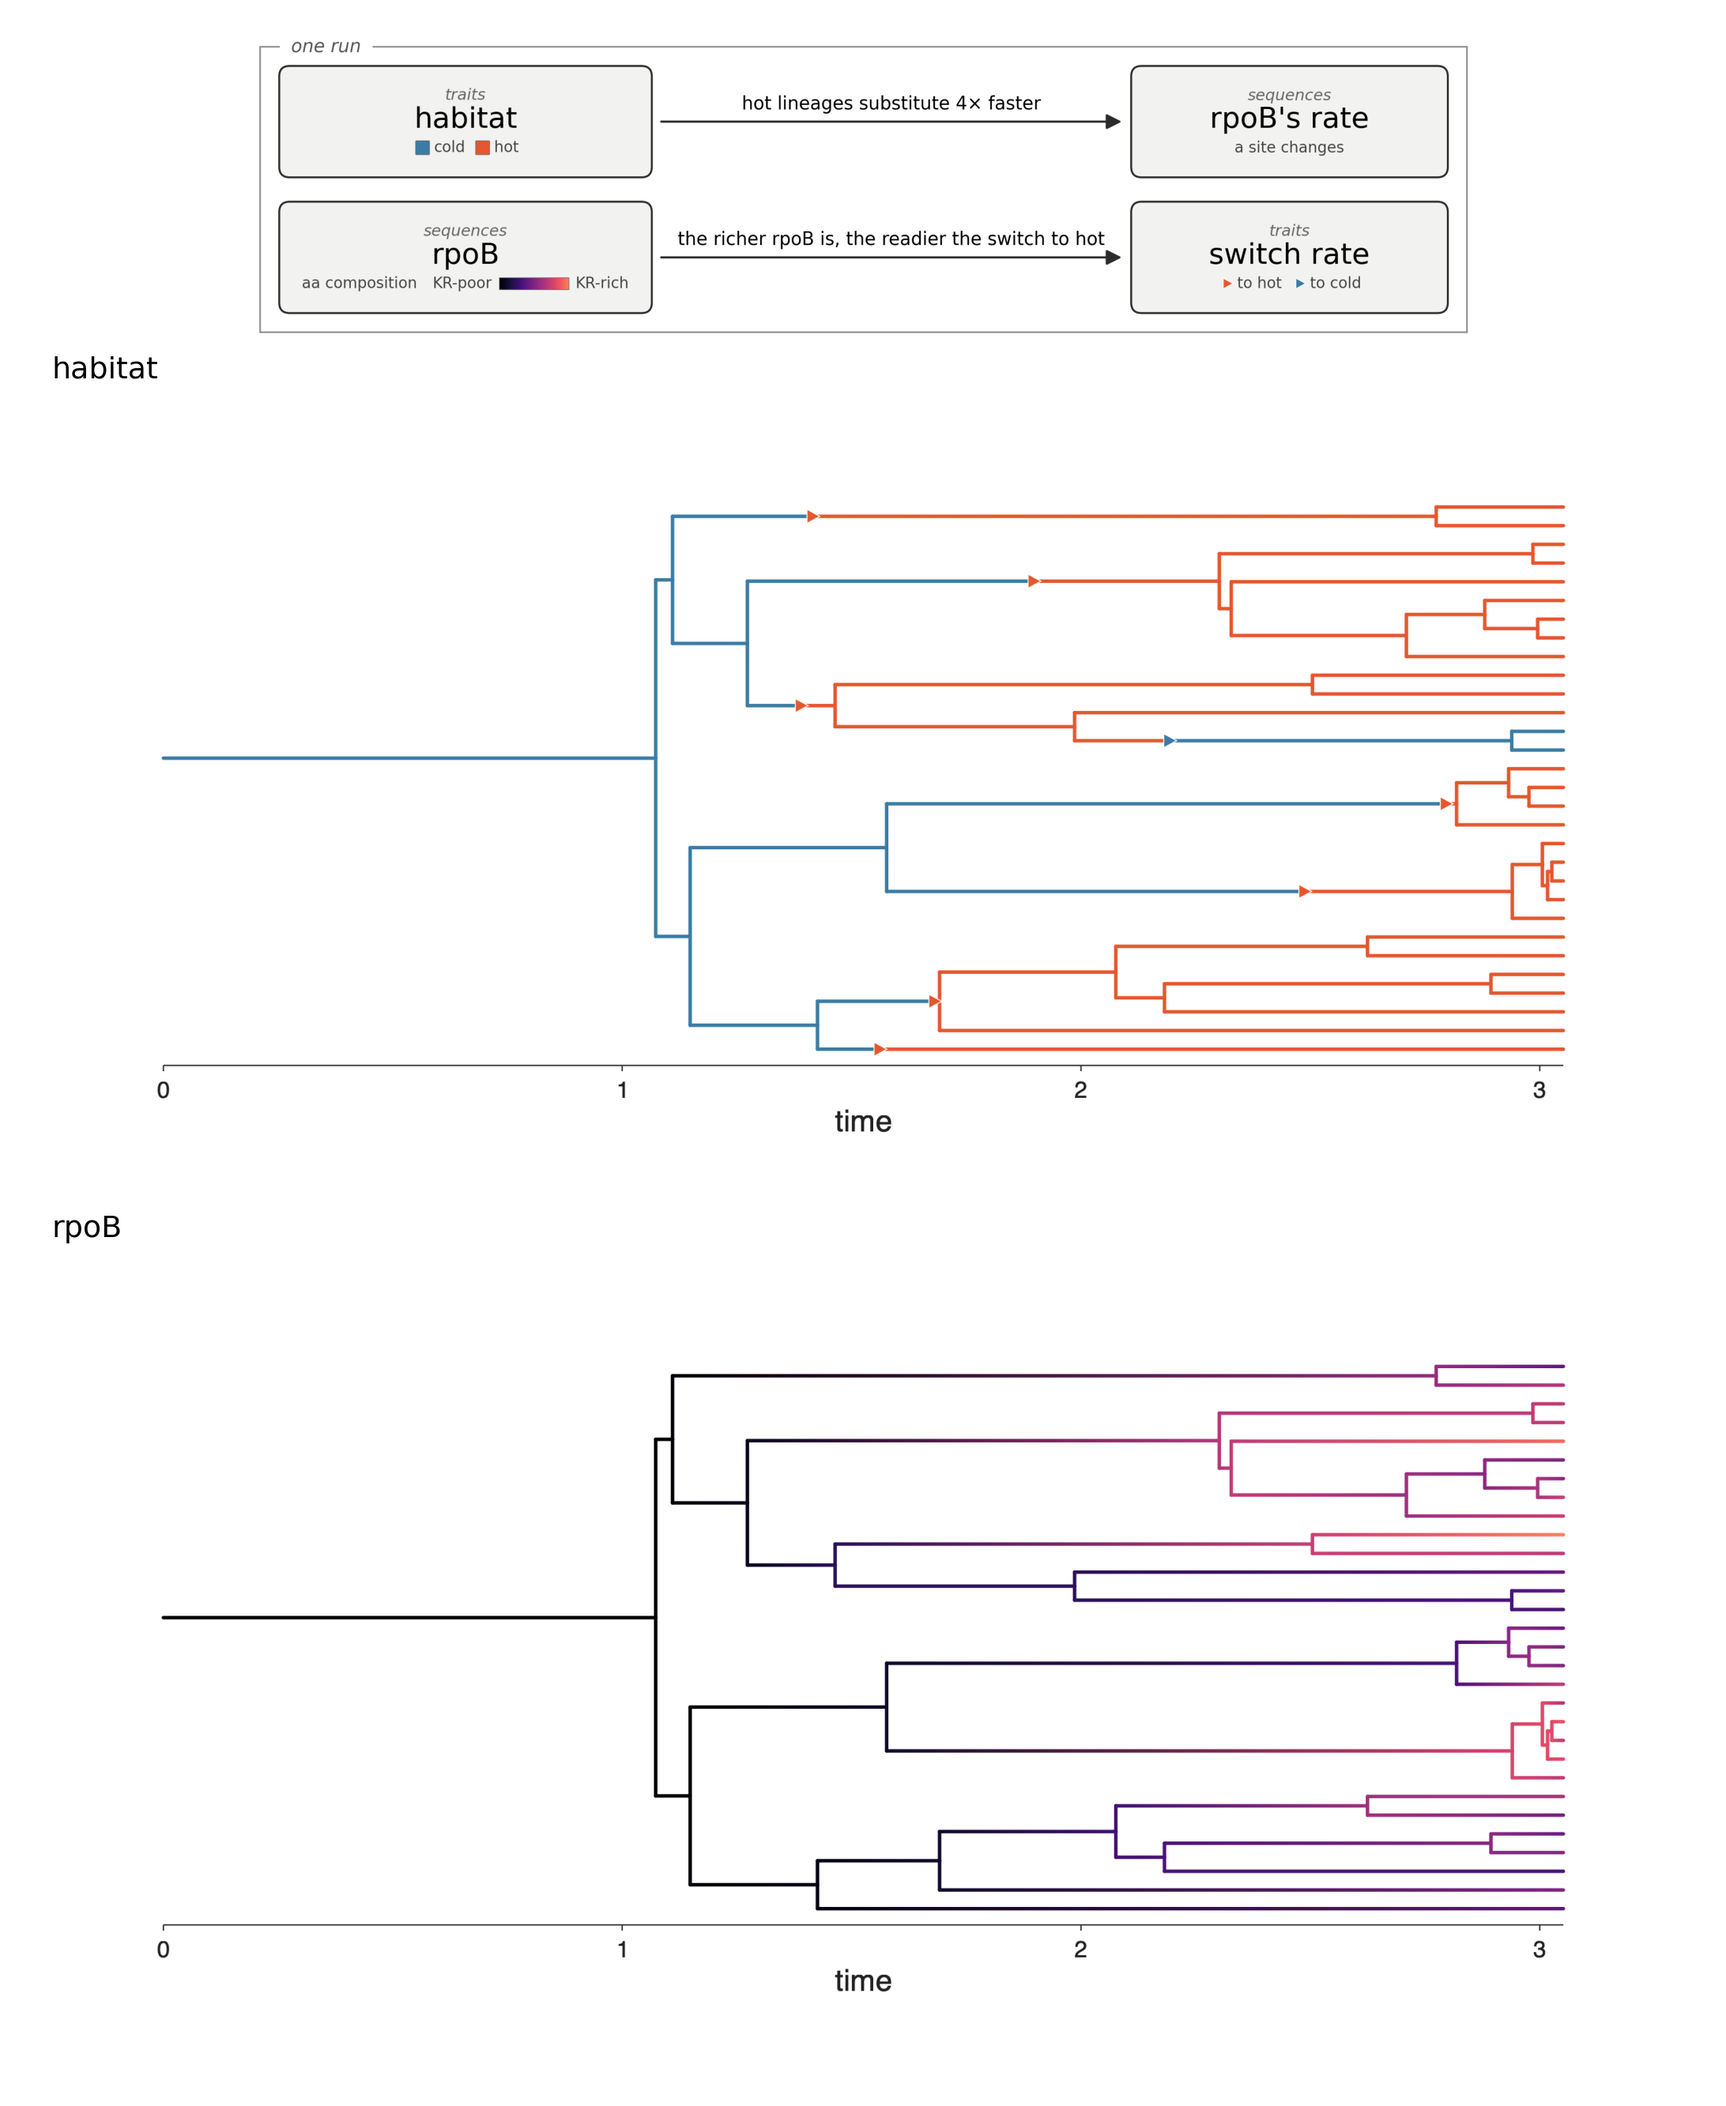
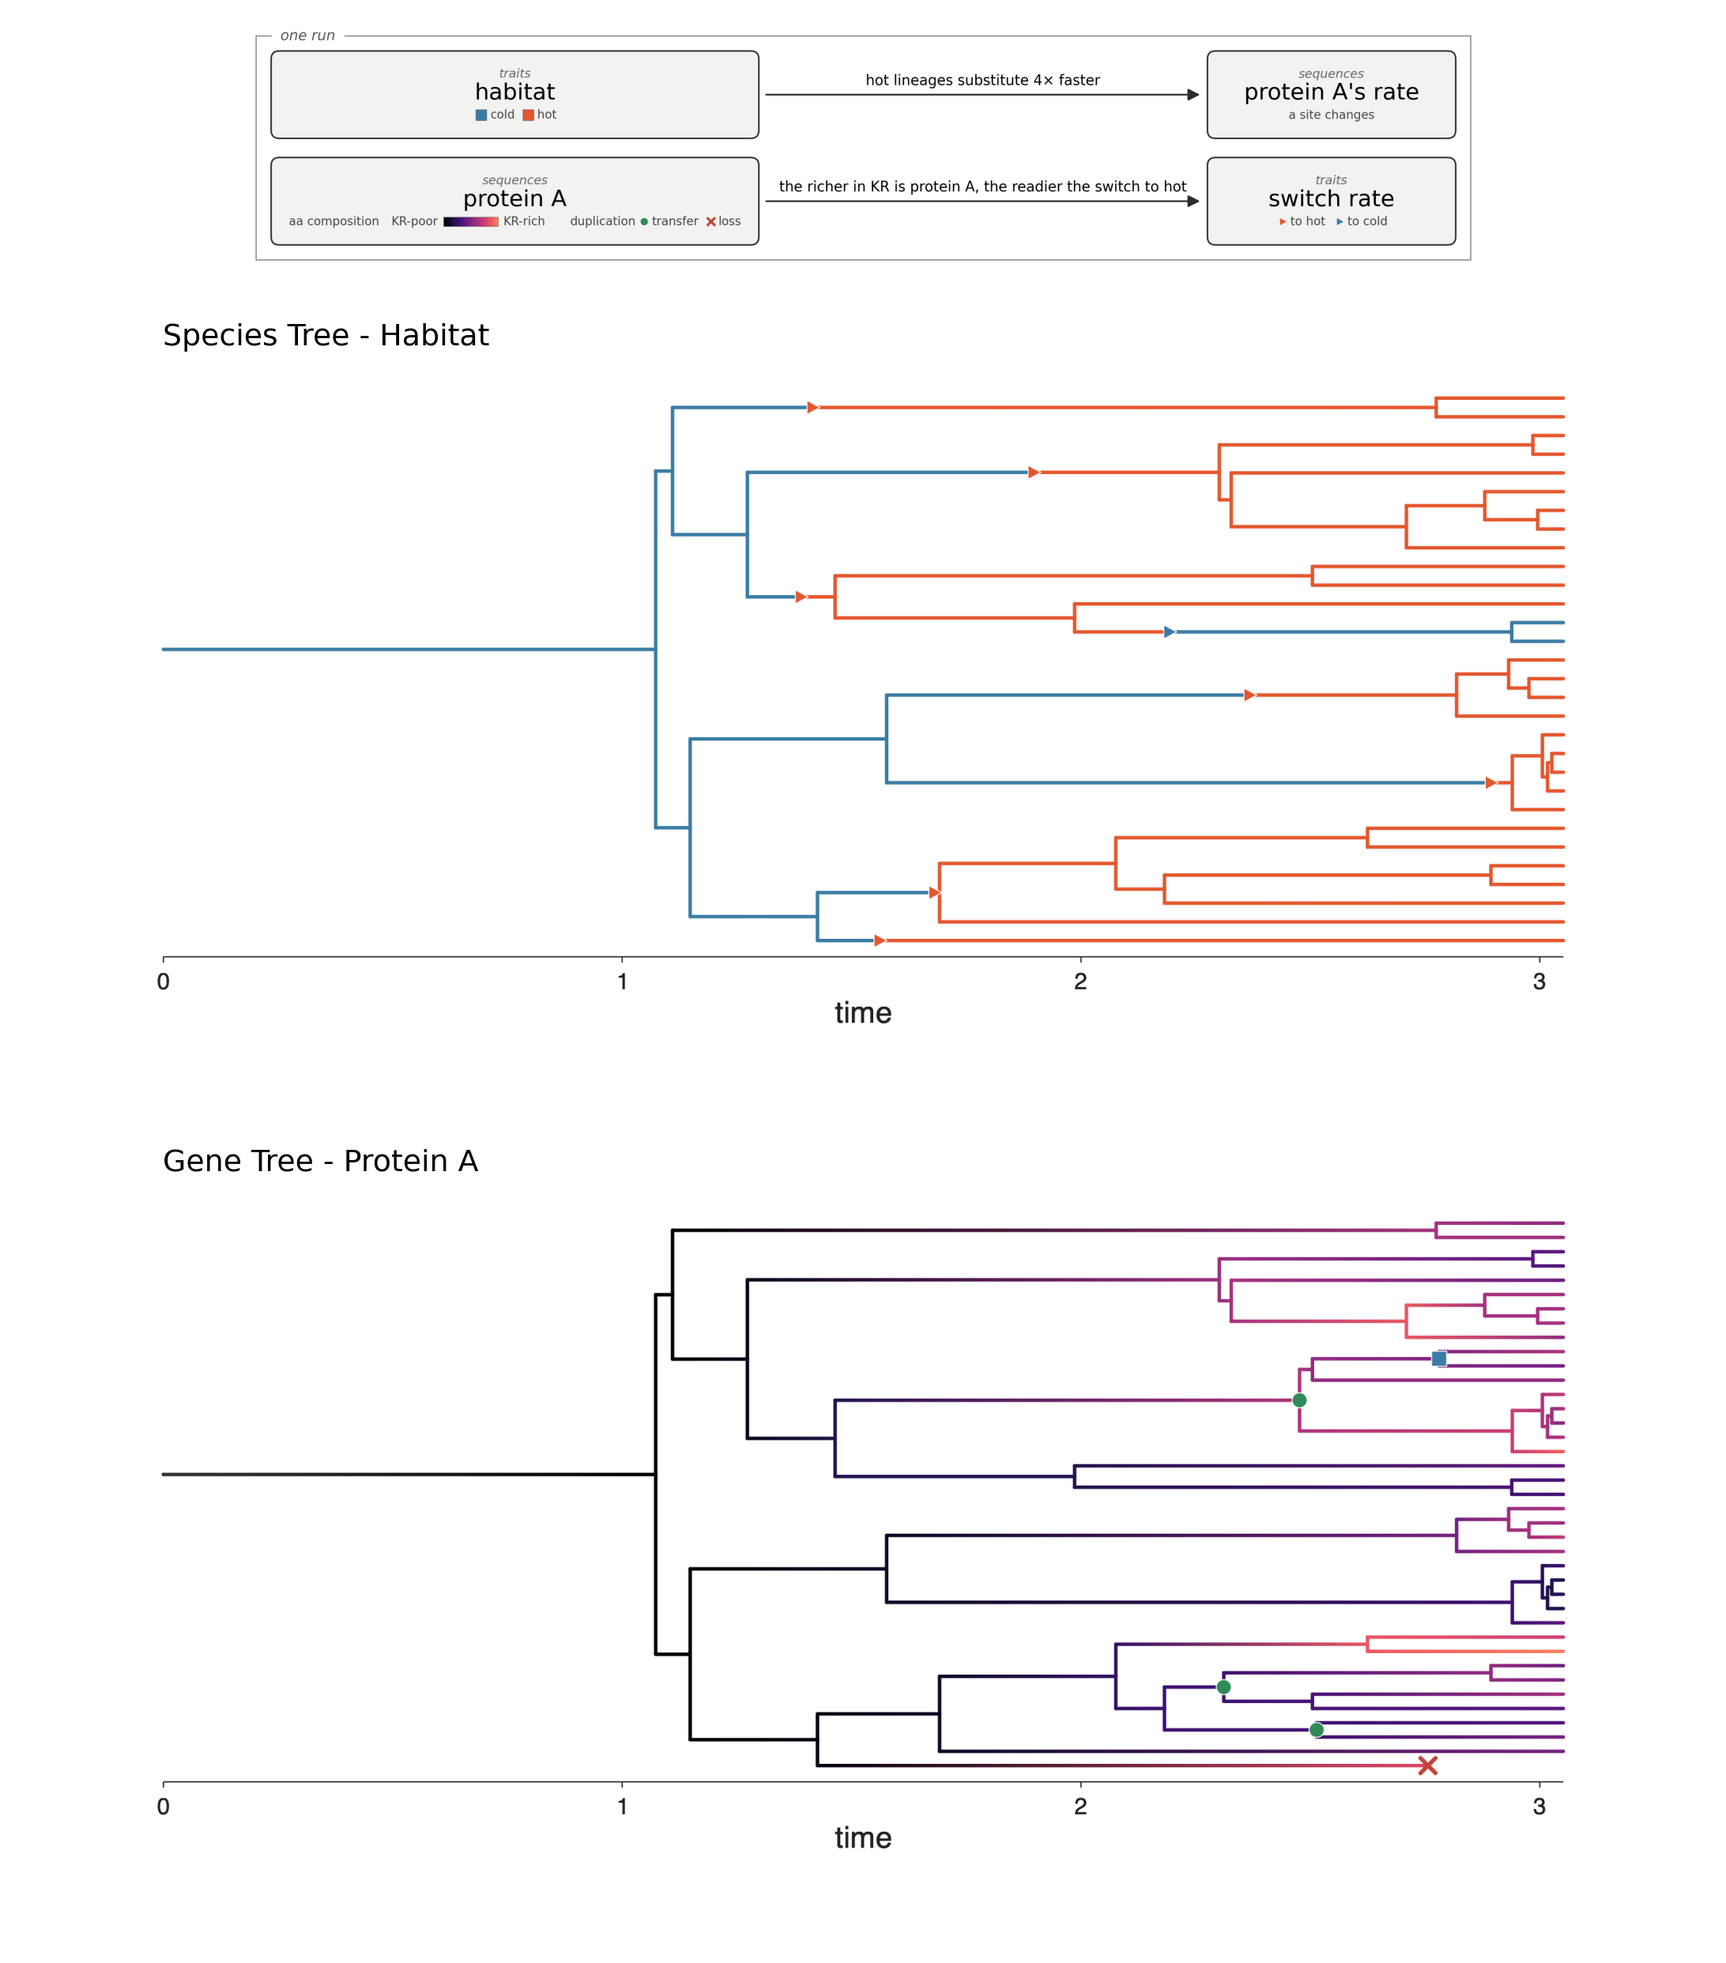
gallery(trait_and_sequence): a true gene tree, with its events
Adrian's review rounds. The gene is protein A everywhere the figure
speaks; panel labels name the tree kind (Species Tree - Habitat, Gene
Tree - Protein A) and sit on the time axis' zero; the key names its
quantity (aa composition) with a full-length ramp. And the panel below
is no longer the species tree wearing a gene tree's name: the family
now evolves under duplication 0.08, transfer 0.08, loss 0.06, the true
complete gene tree is drawn with every node keyed per copy so each
copy's own composition paints it, and the events are marked and keyed
in the protein A box (duplication square, transfer circle, loss cross).
Two helpers make per-copy painting possible: gene_tree_newick_by_copy
and share_by_copy, plus gene_tree_events_by_copy for the marks.

diff --git a/gallery/joining.py b/gallery/joining.py
@@ -535,7 +535,7 @@ def sequence_loop(out):
          "the richer in KR is protein B, the quicker protein A evolves"),
     ])
     # the ramp is named once per gene in the diagram, so the rows below carry no key of their own
-    h.composite_under_diagram(out, diag, [(pngs[0], "protein A"), (pngs[1], "protein B")],
+    h.composite_under_diagram(out, diag, [(pngs[0], "Gene Tree - Protein A"), (pngs[1], "Gene Tree - Protein B")],
                               diagram_frac=0.72)
 
 
@@ -568,8 +568,8 @@ def trait_and_sequence(out):
     from zombi2.params import PerSite
 
     ct = simulate_species_tree(birth=1.0, n_extant=30, seed=1).complete_tree
-    g = simulate_genomes_family(ct, initial_families=3, duplication=0.0, loss=0.0, origination=0.0,
-                                seed=2, families=[family("rpoB")])
+    g = simulate_genomes_family(ct, initial_families=3, duplication=0.08, transfer=0.08,
+                                loss=0.06, origination=0.0, seed=2, families=[family("rpoB")])
     r = joint.simulate(
         traits.discrete(name="habitat", states=["cold", "hot"], start="cold",
                         switch={"cold->hot": PerLineage(0.5).scaled_by(
@@ -593,20 +593,35 @@ def trait_and_sequence(out):
                               size=6.0, legend=False)
      + ph.trees.time_axis("time", tick_size=20, label_size=26, bold=False)).save(habitat)
     gene_png = out.replace(".png", "_rpoB.png")
-    (ph.trees.plot(ph.trees.loads(ct.to_newick()), skeleton=False, style=style)
-     + ph.trees.color_branches(share, cmap="magma_dark", limits=span)
+    # the TRUE gene tree, complete, every node keyed per copy so its own composition
+    # paints it, and its own events marked: with DTL on, the gene tree is no longer a
+    # mirror of the species tree, and pretending otherwise is what confused readers
+    nwk = h.gene_tree_newick_by_copy(g.gene_trees[fam], complete=True)
+    events = h.gene_tree_events_by_copy(g.gene_trees[fam], complete=True)
+    per_copy = h.share_by_copy(r.sequences, fam)
+    (ph.trees.plot(ph.trees.loads(nwk), skeleton=False, style=style)
+     + ph.trees.color_branches(per_copy, cmap="magma_dark",
+                               limits=(min(per_copy.values()), max(per_copy.values())))
+     + ph.trees.branch_events(events,
+                              styles={"duplication": ("square", "#3a7ca5"),
+                                      "transfer": ("circle", "#2e8b57"),
+                                      "loss": ("cross", "#c1443c")},
+                              size=6.5, legend=False)
      + ph.trees.time_axis("time", tick_size=20, label_size=26, bold=False)).save(gene_png)
     diag = h.joint_png(out.replace(".png", "_diag.png"), [
         (("traits", "habitat", [("swatch", _CLIMATE["cold"], "cold"),
                                 ("swatch", _CLIMATE["hot"], "hot")]),
-         ("sequences", "rpoB's rate", [("word", None, "a site changes")]),
+         ("sequences", "protein A's rate", [("word", None, "a site changes")]),
          "hot lineages substitute 4× faster"),
-        (("sequences", "rpoB", [("word", None, "aa composition"),
-                                 ("gradient", "magma_dark", ("KR-poor", "KR-rich"))]),
+        (("sequences", "protein A", [("word", None, "aa composition"),
+                                 ("gradient", "magma_dark", ("KR-poor", "KR-rich")),
+                                 ("square", "#3a7ca5", "duplication"),
+                                 ("circle", "#2e8b57", "transfer"),
+                                 ("cross", "#c1443c", "loss")]),
          ("traits", "switch rate", _switch_key(_CLIMATE, ["hot", "cold"])),
-         "the richer rpoB is, the readier the switch to hot"),
+         "the richer in KR is protein A, the readier the switch to hot"),
     ])
-    h.composite_under_diagram(out, diag, [(habitat, "habitat"), (gene_png, "rpoB")],
+    h.composite_under_diagram(out, diag, [(habitat, "Species Tree - Habitat"), (gene_png, "Gene Tree - Protein A")],
                               diagram_frac=0.72)
 
 

diff --git a/gallery/helpers.py b/gallery/helpers.py
@@ -399,7 +399,8 @@ def root_to_tip(seqs) -> dict:
 
 
 def composite_under_diagram(out: str, diagram_png: str, rows, *, width=12.0, diagram_frac=0.42,
-                            pad=0.03, gap=0.30, label=0.36, key=0.40, dpi=182) -> None:
+                            pad=0.03, gap=0.30, label=0.12, key=0.40, dpi=182,
+                            label_at=96.0 / 1400.0) -> None:
     """The driver·modifier·target diagram on top, then one labelled panel per row.
 
     ``rows`` is ``[(png, label), ...]``, or ``[(png, label, key), ...]`` to put a colour key under
@@ -432,7 +433,11 @@ def composite_under_diagram(out: str, diagram_png: str, rows, *, width=12.0, dia
     for im, h, top, k, row in zip(imgs, heights, tops, keys, rows):
         y -= top + h
         fig.add_axes(box(pad * width, y, body, h)).imshow(im)
-        fig.text(pad, (y + h + top - label + 0.08) / height, row[1], fontsize=15, ha="left",
+        # the label's left edge sits on the time axis' zero (the panel's own margin,
+        # label_at as a fraction of panel width), and low enough to sit just above
+        # the drawn tree rather than floating in the panel's white margin
+        lx = pad + (1 - 2 * pad) * label_at
+        fig.text(lx, (y + h - 0.45) / height, row[1], fontsize=15, ha="left",
                  va="bottom")
         if k is not None:
             _draw_key(fig.add_axes(box(pad * width, y + h, body, key)), k)
@@ -1153,3 +1158,50 @@ def conditioning_png(path, *, driver, connection, target_level, targets,
     fig.savefig(path, dpi=180, transparent=True, bbox_inches="tight")
     plt.close(fig)
     return path
+
+
+def gene_tree_newick_by_copy(gt, *, complete=False) -> str:
+    """The gene tree's newick with EVERY node labelled ``n<species>_g<copy>`` — the same key
+    the sequence tables use — so a per-copy quantity can be painted onto every branch.
+
+    ``GeneTree.to_newick`` labels internal nodes by event and species (``speciation_n3``),
+    which repeats when several copies pass the same species node, so a share keyed per copy
+    cannot find them. Tips already carry the per-copy key; this walk gives it to the
+    internal nodes too. The stem runs from the family's origination time to the root."""
+    def key(n):
+        return f"n{n.species}_g{n.copy}"
+
+    def rec(n):
+        if not n.children:
+            return key(n)
+        inner = ",".join(f"{rec(c)}:{c.time - n.time:.10g}" for c in n.children)
+        return f"({inner}){key(n)}"
+
+    root = gt.complete if complete else gt.extant
+    return f"({rec(root)}:{root.time - gt.origination:.10g});"
+
+
+def gene_tree_events_by_copy(gt, *, complete=False) -> list[dict]:
+    """The gene tree's own events — duplication, transfer arrival, loss — as
+    ``branch_events`` dicts keyed like :func:`gene_tree_newick_by_copy`, so the marks land
+    on the right copies. Losses exist only on the complete tree."""
+    out = []
+    def rec(n):
+        if n.kind in ("duplication", "transfer", "loss"):
+            out.append({"kind": n.kind, "node": f"n{n.species}_g{n.copy}", "x": n.time})
+        for c in n.children:
+            rec(c)
+    rec(gt.complete if complete else gt.extant)
+    return out
+
+
+def share_by_copy(result, fam, letters="KR") -> dict[str, float]:
+    """``{n<species>_g<copy>: that copy's share of ``letters``}`` over every node of one
+    family's gene tree — the per-copy sibling of the lineage-pooled ``_kr_by_node`` in
+    ``joining.py``. Keys match :func:`gene_tree_newick_by_copy`, so the pair paints a
+    true gene tree, duplications, transfers and all."""
+    out = {}
+    for table in (result.alignments[fam], result.ancestral[fam]):
+        for label, seq in table.items():
+            out[label] = sum(seq.count(c) for c in letters) / len(seq)
+    return out
